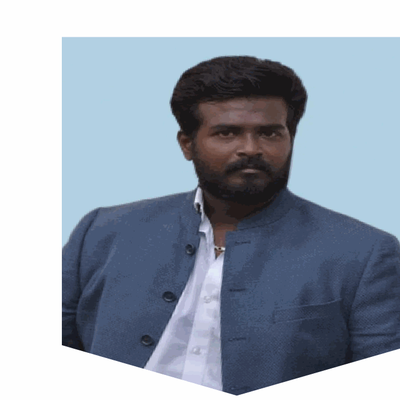
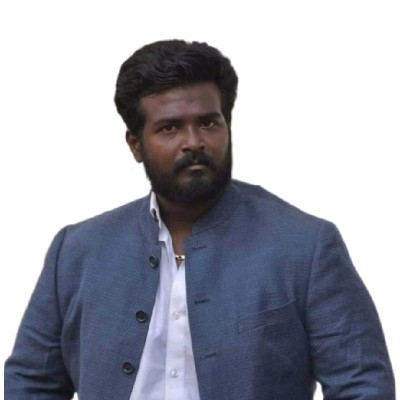
add new pic and cheage color in light mode

diff --git a/src/components/sections/Contact.tsx b/src/components/sections/Contact.tsx
@@ -69,19 +69,29 @@ export default function Contact() {
           <div className="bg-gradient-to-br from-primary-500/10 to-accent-500/10 border border-primary-500/20 rounded-xl p-5 text-center">
             <p className="text-theme-muted text-sm leading-relaxed mb-4">
               Currently open to{" "}
-              <span className="text-primary-400 font-medium">
+              <span className="text-primary-500 font-medium">
                 Senior Frontend Developer
               </span>{" "}
               and{" "}
-              <span className="text-accent-400 font-medium">
+              <span className="text-accent-500 font-medium">
                 Lead Engineer
               </span>{" "}
               positions. Based in Puducherry, open to remote or relocation.
             </p>
-            <div className="inline-flex items-center gap-2 px-4 py-2 rounded-full bg-emerald-500/10 border border-emerald-500/20 text-emerald-400 text-xs font-medium">
-              <span className="w-2 h-2 rounded-full bg-emerald-400 animate-pulse" />
-              Available from June 2025
-            </div>
+            <p className="text-theme-subtle text-xs mb-3">
+              📬 Reach out to discuss availability — happy to chat!
+            </p>
+            <a
+              href="https://wa.me/918015411102"
+              target="_blank"
+              rel="noopener noreferrer"
+              className="inline-flex items-center gap-2 px-4 py-2 rounded-full bg-emerald-500/10 border border-emerald-500/20 text-emerald-600 dark:text-emerald-400 text-xs font-medium hover:bg-emerald-500/20 transition-colors"
+            >
+              <svg className="w-3.5 h-3.5 fill-current" viewBox="0 0 24 24">
+                <path d="M17.472 14.382c-.297-.149-1.758-.867-2.03-.967-.273-.099-.471-.148-.67.15-.197.297-.767.966-.94 1.164-.173.199-.347.223-.644.075-.297-.15-1.255-.463-2.39-1.475-.883-.788-1.48-1.761-1.653-2.059-.173-.297-.018-.458.13-.606.134-.133.298-.347.446-.52.149-.174.198-.298.298-.497.099-.198.05-.371-.025-.52-.075-.149-.669-1.612-.916-2.207-.242-.579-.487-.5-.669-.51-.173-.008-.371-.01-.57-.01-.198 0-.52.074-.792.372-.272.297-1.04 1.016-1.04 2.479 0 1.462 1.065 2.875 1.213 3.074.149.198 2.096 3.2 5.077 4.487.709.306 1.262.489 1.694.625.712.227 1.36.195 1.871.118.571-.085 1.758-.719 2.006-1.413.248-.694.248-1.289.173-1.413-.074-.124-.272-.198-.57-.347m-5.421 7.403h-.004a9.87 9.87 0 01-5.031-1.378l-.361-.214-3.741.982.998-3.648-.235-.374a9.86 9.86 0 01-1.51-5.26c.001-5.45 4.436-9.884 9.888-9.884 2.64 0 5.122 1.03 6.988 2.898a9.825 9.825 0 012.893 6.994c-.003 5.45-4.437 9.884-9.885 9.884m8.413-18.297A11.815 11.815 0 0012.05 0C5.495 0 .16 5.335.157 11.892c0 2.096.547 4.142 1.588 5.945L.057 24l6.305-1.654a11.882 11.882 0 005.683 1.448h.005c6.554 0 11.89-5.335 11.893-11.893a11.821 11.821 0 00-3.48-8.413z"/>
+              </svg>
+              WhatsApp: +91 80154 11102
+            </a>
           </div>
         </div>
 
@@ -105,19 +115,21 @@ export default function Contact() {
                 </p>
                 <p className="text-theme-subtle text-xs">{link.description}</p>
               </div>
-              <svg
-                className="w-5 h-5 text-theme-subtle group-hover:text-primary-400 transition-colors flex-shrink-0"
-                fill="none"
-                stroke="currentColor"
-                viewBox="0 0 24 24"
-              >
-                <path
-                  strokeLinecap="round"
-                  strokeLinejoin="round"
-                  strokeWidth={2}
-                  d="M17 8l4 4m0 0l-4 4m4-4H3"
-                />
-              </svg>
+              {link.label !== "Phone" && (
+                <svg
+                  className="w-5 h-5 text-theme-subtle group-hover:text-primary-400 transition-colors flex-shrink-0"
+                  fill="none"
+                  stroke="currentColor"
+                  viewBox="0 0 24 24"
+                >
+                  <path
+                    strokeLinecap="round"
+                    strokeLinejoin="round"
+                    strokeWidth={2}
+                    d="M17 8l4 4m0 0l-4 4m4-4H3"
+                  />
+                </svg>
+              )}
             </a>
           ))}
         </div>

diff --git a/src/app/globals.css b/src/app/globals.css
@@ -8,14 +8,14 @@
    CSS VARIABLES — Light Theme (default)
    ============================================= */
 :root {
-  --bg-page:     #f8fafc;
-  --bg-surface:  #f1f5f9;
-  --bg-card:     #ffffff;
-  --border:      #e2e8f0;
+  --bg-page:     #e8f0f8;
+  --bg-surface:  #dbeafe;
+  --bg-card:     #eff6ff;
+  --border:      #bfdbfe;
   --text-base:   #0f172a;
-  --text-muted:  #475569;
-  --text-subtle: #94a3b8;
-  --shadow:      0 4px 24px 0 rgba(15,23,42,0.08);
+  --text-muted:  #1e3a5f;
+  --text-subtle: #3b6ea5;
+  --shadow:      0 4px 24px 0 rgba(59,130,246,0.10);
 }
 
 /* =============================================